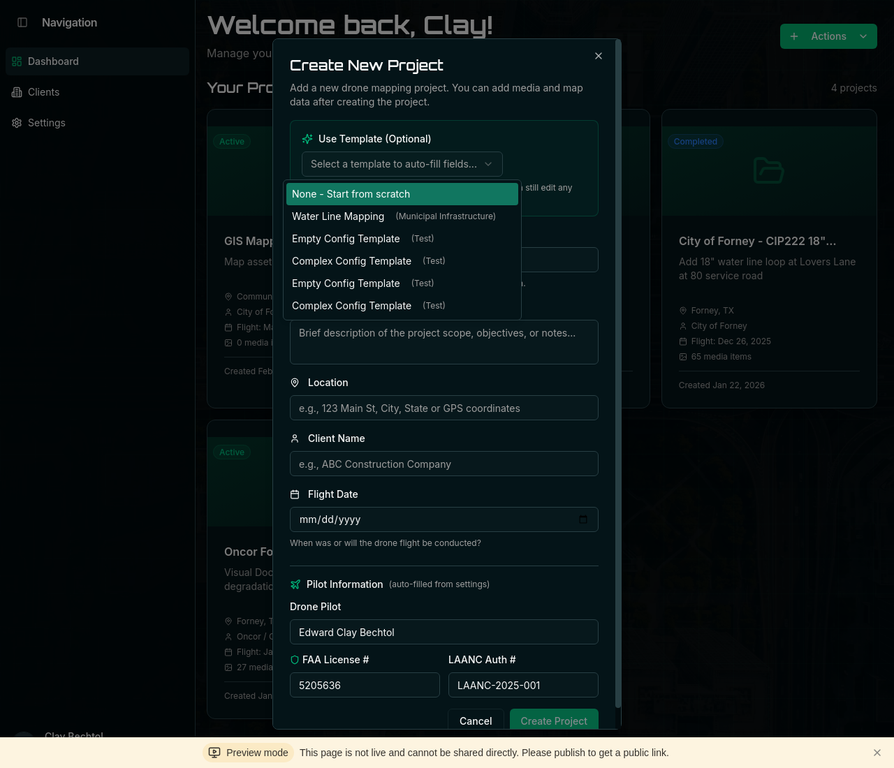
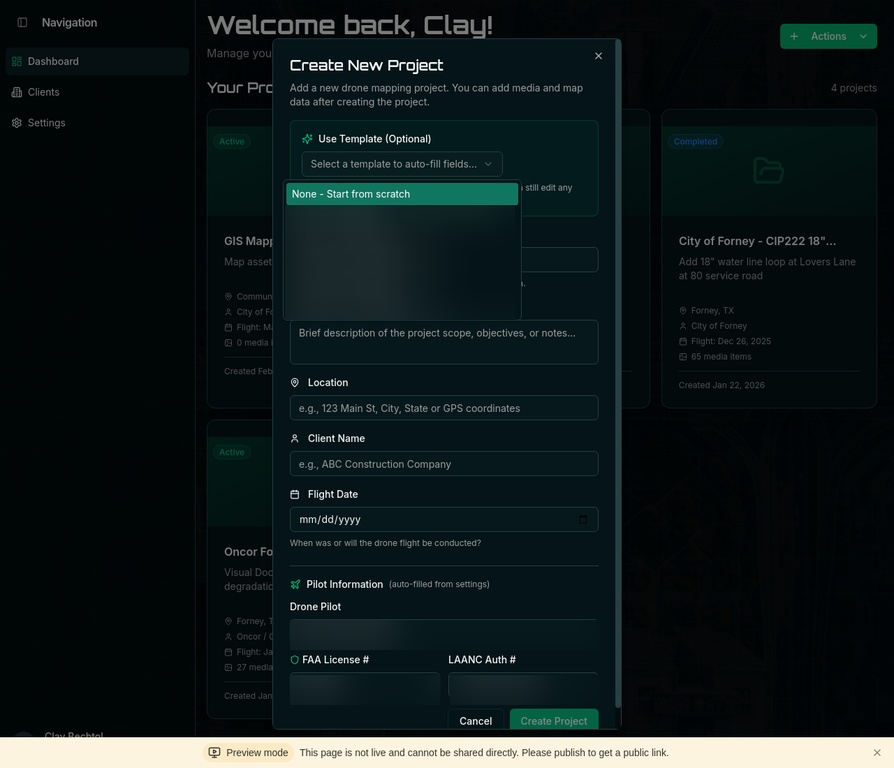
Checkpoint: Blurred sensitive information (pilot name, FAA license, LAANC auth, client details) from Project Templates hero card image to protect privacy

diff --git a/todo.md b/todo.md
@@ -284,3 +284,9 @@
 - [x] Create/capture screenshot of actual MapIt template UI
 - [x] Update image reference in homepage
 - [x] Test image display
+
+## Blur Sensitive Information from Template Hero Image
+- [x] Load the template screenshot image
+- [x] Blur pilot name, FAA license, LAANC auth, and client information
+- [x] Save the edited image
+- [x] Test the blurred image on homepage
